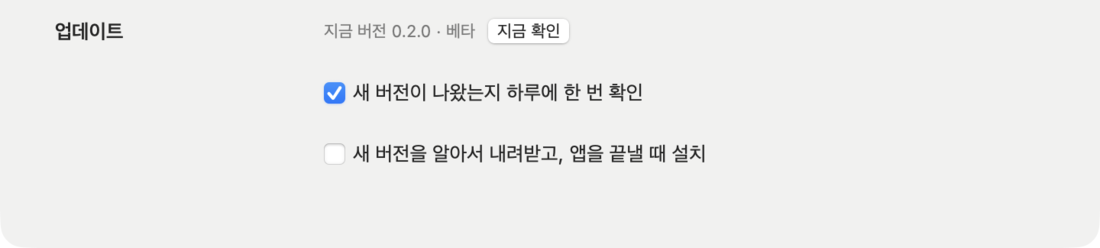
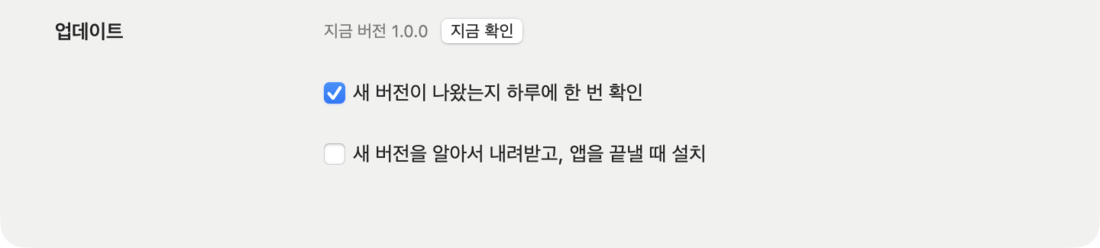
말끔 1.0.0: 정식판 appcast·cask·README·화면 사진

Changed region(s): [[0.34, 0.0847, 0.5255, 0.1976]]

diff --git a/Casks/malkkeum.rb b/Casks/malkkeum.rb
@@ -1,11 +1,11 @@
 cask "malkkeum" do
-  version "0.2.0"
[1 lines of base64/hex data omitted]
+  version "1.0.0"
[1 lines of base64/hex data omitted]
 
   url "https://github.com/gkgk545/WashMyMac_homebrew/releases/download/v#{version}/Malkkeum-#{version}.zip"
   name "말끔"
   name "Malkkeum"
-  desc "쓸모없는 파일 정리 도구(베타)"
+  desc "쓸모없는 파일 정리 도구"
   homepage "https://github.com/gkgk545/WashMyMac_homebrew"
 
   auto_updates true

diff --git a/README.md b/README.md
@@ -5,7 +5,7 @@
 <h1 align="center">말끔 (Malkkeum)</h1>
 
 <p align="center">
-  Mac에 쌓인 쓸모없는 파일을 찾아 정리하는 앱 · <b>베타</b>
+  Mac에 쌓인 쓸모없는 파일을 찾아 정리하는 앱
 </p>
 
 <p align="center">
@@ -19,14 +19,15 @@
 </p>
 
 <p align="center">
-  <img src="media/smart-care-results.png" width="820" alt="스마트 케어 스캔이 끝난 화면: 정크 1.3 GB, 찾은 위협 없음, 검토할 항목 12개, 중복 다운로드 2개">
+  <img src="media/smart-care-results.png" width="820" alt="스마트 케어 스캔이 끝난 화면: 정크 1.5 GB, 찾은 위협 없음, 검토할 항목 12개, 중복 다운로드 2개">
 </p>
 
 > [!IMPORTANT]
-> 지금은 **베타**예요. 정리한 것은 모두 **휴지통으로만** 옮기고, 아무것도 영구히 지우지 않아요.
-> 휴지통을 비우기 전까지는 언제든 되돌릴 수 있어요.
+> **정크**(앱이 다시 만드는 캐시·로그 등)는 휴지통을 거치지 않고 **바로 지워** 곧장 공간이 생겨요. 되돌릴 수 없어요.
+> 앱 제거·정리함 같은 **내 파일**은 휴지통으로 옮겨서, 휴지통을 비우기 전까지 되돌릴 수 있어요.
+> 무엇이 어떻게 정리되는지는 [정리하면 무엇이 지워지나요?](#자주-묻는-것)에 모아 두었어요.
 
-**바로 가기** · [설치](#설치) · [처음 열면](#처음-열면) · [이렇게 써요](#이렇게-써요) · [되돌리기](#잘못-정리했을-때) · [업데이트](#업데이트) · [의견 보내기](#오류-보고와-의견) · [지우기](#지우기) · [자주 묻는 것](#자주-묻는-것)
+**바로 가기** · [설치](#설치) · [처음 열면](#처음-열면) · [이렇게 써요](#이렇게-써요) · [되돌리기](#잘못-정리했을-때) · [업데이트](#업데이트) · [베타에서 넘어왔다면](#베타에서-넘어왔다면) · [의견 보내기](#오류-보고와-의견) · [지우기](#지우기) · [자주 묻는 것](#자주-묻는-것)
 
 ## 설치
 
@@ -42,7 +43,7 @@ brew install --cask gkgk545/washmymac/malkkeum
 ```
 
 - 응용 프로그램 폴더에 말끔(Malkkeum)이 생기고, 처음 열 때 **"열 수 없음" 창 없이 바로 열려요.**
-  베타 앱은 아직 Apple 공증을 받지 않아서, 설치 명령이 이 앱에 붙은 다운로드 확인 표시를 지워 줘요.
+  말끔은 Apple 공증을 받지 않아서, 설치 명령이 이 앱에 붙은 다운로드 확인 표시를 지워 줘요.
 - 둘째 줄처럼 `gkgk545/washmymac/malkkeum` 전체 이름으로 설치해야 Homebrew가 이 저장소를 믿고 설치해요.
 - Homebrew가 없다면 [brew.sh](https://brew.sh)의 설치 명령을 먼저 실행하세요.
 
@@ -59,17 +60,17 @@ brew install --cask gkgk545/washmymac/malkkeum
 
 - 짧은 소개가 지나간 뒤 **전체 디스크 접근**을 허용해 달라고 해요. 안내 단추를 누르면 시스템 설정이 열리고,
   목록에서 말끔을 켜면 돼요. 허용하지 않아도 쓸 수는 있지만 찾는 것이 줄어요.
-- 오류 보고를 보낸다는 안내가 한 번 떠요. 원하지 않으면 끌 수 있어요([오류 보고와 의견](#오류-보고와-의견)).
+- 오류 보고를 자동으로 보낸다는 안내가 한 번 떠요. 원하지 않으면 끌 수 있어요([오류 보고와 의견](#오류-보고와-의견)).
 
 ## 이렇게 써요
 
 <p align="center">
-  <img src="media/clean-flow.gif" width="760" alt="청소 화면: 스캔 단추를 누르면 정크를 찾고, 결과 카드에서 청소를 누르면 휴지통으로 옮긴 뒤 끝 화면이 나온다">
+  <img src="media/clean-flow.gif" width="760" alt="청소 화면: 스캔 단추를 누르면 정크를 찾고, 결과 카드에서 청소를 누르면 정리한 뒤 끝 화면이 나온다">
   <br><sub>청소: <b>스캔</b> → 결과 확인 → <b>청소</b> → 끝. 실제 속도 그대로예요.</sub>
 </p>
 
 1. 왼쪽에서 메뉴를 고르고 아래 둥근 **스캔** 단추를 눌러요.
-2. 결과 카드의 **검토**를 눌러 무엇이 휴지통으로 갈지 꼭 확인하세요. 모르는 항목은 체크를 풀어 두면 돼요.
+2. 결과 카드의 **검토**를 눌러 무엇을 정리할지 꼭 확인하세요. 모르는 항목은 체크를 풀어 두면 돼요.
 3. **청소**(스마트 케어는 **실행**)를 누르면 끝이에요.
 
 | 메뉴 | 하는 일 |
@@ -96,14 +97,18 @@ brew install --cask gkgk545/washmymac/malkkeum
 
 ## 잘못 정리했을 때
 
-셋 중 아무거나 쓰세요. 휴지통을 비우기 전까지는 언제든 돌아와요.
+휴지통으로 옮긴 내 파일(앱 제거·정리함·공간 지도에서 지운 것)은 셋 중 아무거나로 되돌려요. 휴지통을 비우기 전까지는 언제든 돌아와요.
+바로 지운 정크와 되돌릴 수 없는 변경(아래 [자주 묻는 것](#자주-묻는-것))은 되돌릴 수 없어요.
 
 - 정리가 끝난 화면의 **휴지통에서 되돌리기**
 - 위쪽 메뉴 **편집 › 마지막 정리 되돌리기**
 - Finder에서 **휴지통**을 열고 항목을 오른쪽 클릭 › **되돌려 놓기**
 
+시스템 폴더(`/Library/LaunchDaemons` 등)에서 휴지통으로 간 앱 파일은 원래 자리에 관리자 권한이 필요해서 말끔의 되돌리기가 건드리지 않아요.
+Finder 휴지통에서 원래 자리로 끌어다 놓으세요(관리자 암호를 물어요). 원래 자리는 정리 기록(끝 화면의 **기록 보기**)에 있어요.
+
 > [!TIP]
-> 휴지통으로 옮긴 것은 휴지통을 비워야 실제로 공간이 생겨요. 며칠 써 보고 괜찮으면 비우는 것을 권해요.
+> 휴지통으로 옮긴 내 파일은 휴지통을 비워야 실제로 공간이 생겨요. 며칠 써 보고 괜찮으면 비우는 것을 권해요.
 
 ## 업데이트
 
@@ -118,13 +123,25 @@ brew install --cask gkgk545/washmymac/malkkeum
   <img src="media/settings-updates.png" width="620" alt="설정 > 일반 화면: 업데이트 칸에 지금 버전, 지금 확인 단추, 자동 확인과 자동 설치 체크 상자">
 </p>
 
-정식판이 나오면 같은 방법으로 넘어가요. 정식판에서 바뀌는 점(정리 방식 등)은 업데이트 창에 적어 둘게요.
+## 베타에서 넘어왔다면
+
+베타(0.x)를 쓰던 Mac은 평소처럼 업데이트를 받으면 1.0이 되고, 설정·기록·헬퍼·전체 디스크 접근은 그대로예요. **정리 방식이 바뀌어요.**
+
+- **정크는 바로 지워요.** 베타에서는 휴지통으로 옮겼지만, 1.0부터는 휴지통을 거치지 않아 되돌릴 수 없어요. 브라우저 캐시도 마찬가지예요.
+- **베타에서 건너뛰던 일을 해요.** 브라우저 기록 지우기, 최근 항목 목록 비우기, 문서의 이전 버전 지우기, Time Machine 로컬 스냅샷 줄이기처럼
+  되돌릴 수 없는 일도 이제 실행해요. 청소의 **휴지통 비우기**는 청소 화면에서 직접 골랐을 때만 해요(스마트 케어는 휴지통을 건드리지 않아요).
+  시스템 폴더에 남은 앱 파일(시작 항목·플러그인 등)은 관리자 권한으로 휴지통에 옮겨요.
+  끝 화면의 "베타에서 정리하지 않음"은 더 나오지 않아요. 원하지 않는 항목은 검토 화면에서 체크를 풀어 두세요.
+- **내 파일은 그대로 휴지통으로 가요.** 앱 제거·정리함·공간 지도에서 지운 것은 지금처럼 되돌릴 수 있어요.
+- 베타 안내와 첫 정리 직전 확인 창은 더 뜨지 않아요. 예외 목록·보호 폴더는 베타 때와 똑같이 지켜요.
+- 정리할 때 실행 중인 앱·AI 도구의 파일은 건너뛰어요(끝 화면에 "실행 중이라 건너뜀").
+- 오류 보고는 베타에서 정해 둔 대로예요(끄지 않았다면 계속 보내요).
 
 ## 오류 보고와 의견
 
-- 앱에 문제가 생기면 **오류 보고를 자동으로** 보내요. 보내기 전에 사용자 이름·컴퓨터 이름·홈 폴더 경로·파일 이름은 지워요.
+- **오류 보고**: 앱에 문제가 생기면 자동으로 보내요(처음 열 때 한 번 알려 드려요). 보내기 전에 사용자 이름·컴퓨터 이름·홈 폴더 경로·파일 이름은 지워요.
   원하지 않으면 **말끔 › 설정 › 일반**에서 "오류 보고 보내기"를 끄세요.
-- 이상한 점이 있으면 **도움말 › 문제 보내기…** 메뉴로 알려 주세요. 글은 비워 둬도 되고, 최근 정리 기록 몇 줄이 이름·경로를 지운 채 함께 가요.
+- 이상한 점이 있으면 **도움말 › 문제 보내기…** 메뉴로 알려 주세요(오류 보고를 켜야 보낼 수 있어요). 글은 비워 둬도 되고, 최근 정리 기록 몇 줄이 이름·경로를 지운 채 함께 가요.
 
 ## 지우기
 
@@ -135,14 +152,16 @@ brew install --cask gkgk545/washmymac/malkkeum
   ```
 
   설정과 기록까지 지우려면 `brew uninstall --zap --cask malkkeum`.
-- **직접 설치했다면**: 메뉴 막대 아이콘 › **끝내기**를 누른 뒤, 응용 프로그램 폴더의 `Malkkeum`(말끔)을 휴지통으로 옮겨요.
+- **직접 설치했다면**: 먼저 말끔의 설정 › 일반에서 **메뉴 막대에 보이기**를 끄고, 응용 프로그램 폴더의 `Malkkeum`(말끔)을 휴지통으로 옮겨요.
+  메뉴 막대 아이콘은 몇 초 안에 저절로 사라져요. 끄지 않고 지웠다면 **시스템 설정 › 일반 › 로그인 항목 및 확장 프로그램 › 백그라운드 앱 활동**에
+  말끔이 켜진 채 남아요 — 거기서 끄면 돼요.
 
 ## 자주 묻는 것
 
 <details>
 <summary><b>"열 수 없음" 창이 떠요</b></summary>
 
-직접 내려받아 설치하면 처음 한 번 떠요. Apple 공증을 받지 않은 베타 앱이라서예요.
+직접 내려받아 설치하면 처음 한 번 떠요. 말끔은 Apple 공증을 받지 않은 앱이라서예요.
 **완료**를 누른 뒤 **시스템 설정 › 개인정보 보호 및 보안** 맨 아래에서 **확인 없이 열기**를 누르세요.
 Homebrew로 설치하면 이 창이 뜨지 않아요.
 </details>
@@ -163,5 +182,17 @@ Homebrew로 설치하면 이 창이 뜨지 않아요.
 <details>
 <summary><b>정리하면 무엇이 지워지나요?</b></summary>
 
-베타에서는 아무것도 지우지 않고 **휴지통으로 옮기기만** 해요. 휴지통으로 옮길 수 없는 것(시스템 파일 등)은 건너뛰고, 끝 화면에 "베타에서 정리하지 않음"으로 알려 줘요.
+| 무엇 | 어떻게 | 되돌리기 |
+|---|---|---|
+| 청소(정크): 캐시·로그·Xcode 찌꺼기·AI 도구 임시 파일 등 | 바로 지움 | 안 됨 |
+| 청소의 휴지통 비우기(직접 고를 때만) | 바로 지움 | 안 됨 |
+| 앱 제거·정리함·공간 지도에서 고른 내 파일 | 휴지통으로 | 휴지통에서 |
+| 정리함의 비슷한 사진 | 사진 앱 "최근 삭제됨"으로 | 사진 앱에서 |
+| 시스템 폴더의 앱 찌꺼기(관리자 권한, 시작 항목·플러그인 등) | 휴지통으로 | Finder 휴지통에서 원래 자리로 끌어다 놓기(관리자 암호) |
+| 브라우저 기록·캐시, 문서의 이전 버전, 최근 항목 목록 | 지움·비움 | 안 됨 |
+| Time Machine 로컬 스냅샷 줄이기·제거 가능 공간 비우기 | 실행 | 안 됨 |
+| 로그인 항목·권한 끄기 | 끔 | 설정에서 다시 켬 |
+
+예외 목록에 넣은 것과 macOS가 보호하는 폴더는 정리하지 않아요. 검토 화면에서 체크를 푼 항목도 그대로 둬요.
+**정리할 때 실행 중인 앱**(AI 도구 포함)의 파일은 골랐어도 건너뛰고, 끝 화면에 "실행 중이라 건너뜀"으로 알려 줘요. 그 앱을 끈 뒤 다시 정리하면 돼요.
 </details>
